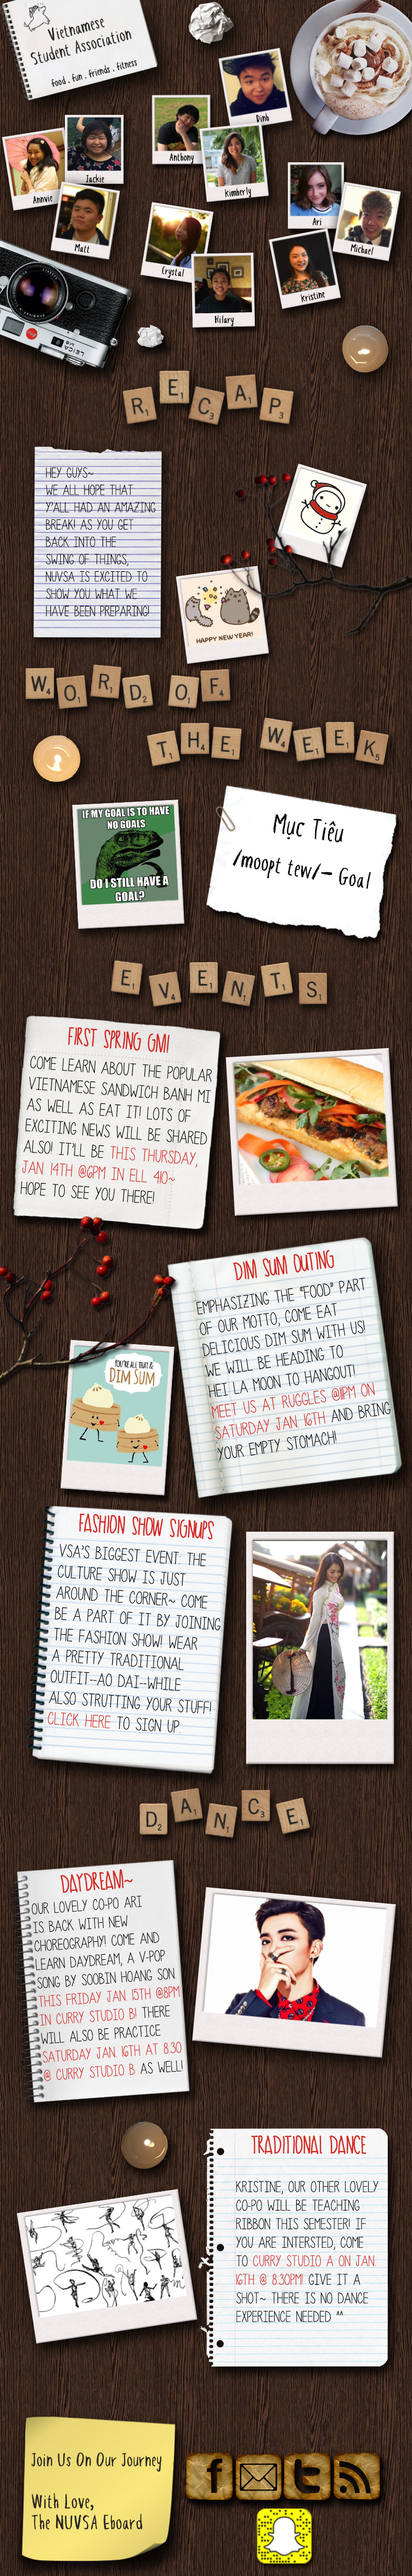
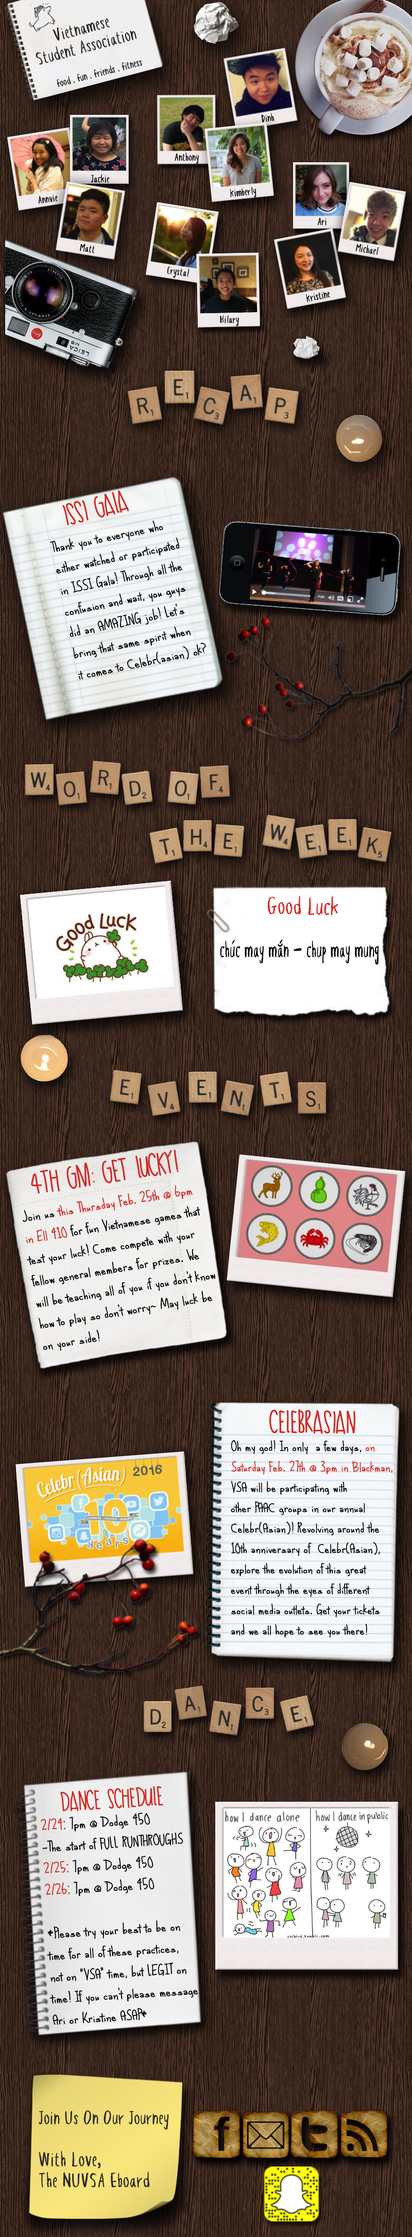
Updated current newsletter

diff --git a/index.html b/index.html
@@ -54,21 +54,21 @@
     <!-- Matt was here LOL -->
     <!-- ...mmmm check out dat source -->
     <div>
-      <img id="newsletter" src="images/winterNewsletter6.jpg" border="0" width="800" height="4712" orgWidth="800" orgHeight="4712" usemap="#image-maps-2016-02-17-010904" alt="" />
+      <img id="newsletter" src="images/winterNewsletter.jpg" border="0" width="800" height="4343" orgWidth="800" orgHeight="4343" usemap="#image-maps-2016-02-24-040545" alt="" />
     </div>
-    <map name="image-maps-2016-02-17-010904" id="newsletterMap">
-      <area  alt="" title="Word of the Week" href="http://www.vsa.neu.edu/#cboxdiv" shape="rect" coords="0,2141,800,2527" style="outline:none;" target="_self"     />
-      <area  alt="" title="NUVSA Facebook" href="https://www.facebook.com/groups/NUVSA/" shape="rect" coords="375,4464,465,4555" style="outline:none;" target="_self"     />
-      <area  alt="" title="Send us an email!" href="mailto:thenuvsaeboard@gmail.com" shape="rect" coords="470,4465,560,4556" style="outline:none;" target="_self"     />
-      <area  alt="" title="NUVSA Twitter" href="https://twitter.com/nuvsa" shape="rect" coords="564,4464,654,4555" style="outline:none;" target="_self"     />
-      <area  alt="" title="NUVSA Website" href="http://www.vsa.neu.edu/" shape="rect" coords="660,4463,750,4554" style="outline:none;" target="_self"     />
-      <area  alt="" title="NUVSA Snapchat" href="http://nuvsa.github.io/images/vsaSnapchat.jpg" shape="rect" coords="512,4572,618,4680" style="outline:none;" target="_self"     />
-      <area  alt="" title="Anthony Li" href="javascript:rickRoll()" shape="poly" coords="310,188,414,187,413,247,396,248,402,291,309,293" style="outline:none;" target="_self"     />
-      <area  alt="" title="SASE NERC Photos!!" href="https://www.facebook.com/ynnejcheung/media_set?set=a.1118072334871808.1073741848.100000071553519&type=3" shape="poly" coords="458,1455,707,1410,738,1568,586,1595,509,1590,504,1613,490,1615" style="outline:none;" target="_self"     />
-      <area  alt="" title="SASE NERC" href="https://www.facebook.com/ynnejcheung/media_set?set=a.1118072334871808.1073741848.100000071553519&type=3" shape="poly" coords="521,1600,773,1620,762,1781,508,1762" style="outline:none;" target="_self"     />
-      <area  alt="" title="Celebr(Asian) 2016" href="https://www.facebook.com/events/908648615920253/" shape="poly" coords="629,3465,715,3466,714,3535,545,3549,544,3576,444,3572,452,3497,629,3494" style="outline:none;" target="_self"     />
-      <area  alt="" title="Dance Schedule!! RIP" href="https://www.facebook.com/photo.php?fbid=699787600124999&set=gm.1096982636990496&type=3&theater" shape="poly" coords="16,3882,324,3795,448,4266,142,4354" style="outline:none;" target="_self"     />
-      <area  alt="" title="One Night, One World Gala!!" href="https://www.facebook.com/events/1664275890490640/" shape="poly" coords="353,2951,430,2942,447,3008,160,3060,169,3093,99,3107,84,3026,362,2979" style="outline:none;" target="_self"     />
+    <map name="image-maps-2016-02-24-040545" id="newsletterMap">
+      <area  alt="" title="Word of the Week" href="http://www.vsa.neu.edu/#cboxdiv" shape="rect" coords="0,1706,800,1992" style="outline:none;" target="_self"     />
+      <area  alt="" title="" href="https://www.facebook.com/events/970499653019438/" shape="rect" coords="73,3526,130,3557" style="outline:none;" target="_self"     />
+      <area  alt="" title="" href="https://www.facebook.com/events/1555030831474604/" shape="rect" coords="82,3650,139,3681" style="outline:none;" target="_self"     />
+      <area  alt="" title="NUVSA Facebook" href="https://www.facebook.com/groups/NUVSA/" shape="rect" coords="377,4098,465,4189" style="outline:none;" target="_self"     />
+      <area  alt="" title="Send us an email!" href="mailto:thenuvsaeboard@gmail.com" shape="rect" coords="473,4099,561,4190" style="outline:none;" target="_self"     />
+      <area  alt="" title="NUVSA Twitter" href="https://twitter.com/nuvsa" shape="rect" coords="567,4098,655,4189" style="outline:none;" target="_self"     />
+      <area  alt="" title="NUVSA Website" href="http://www.vsa.neu.edu/" shape="rect" coords="663,4096,751,4187" style="outline:none;" target="_self"     />
+      <area  alt="" title="NUVSA Snapchat" href="http://nuvsa.github.io/images/vsaSnapchat.jpg" shape="rect" coords="512,4206,621,4314" style="outline:none;" target="_self"     />
+      <area shape="rect" coords="798,4341,800,4343" alt="Image Map" style="outline:none;" title="Image Map" href="http://www.image-maps.com/index.php?aff=mapped_users_0" />
+      <area  alt="" title="" href="javascript:rickRoll()" shape="poly" coords="309,189,412,187,413,250,396,247,401,292,312,291" style="outline:none;" target="_self"     />
+      <area  alt="" title="VSA Spring GM #4" href="https://www.facebook.com/events/164221313959425/" shape="poly" coords="108,2334,375,2293,381,2328,130,2374,133,2404,49,2423,44,2389,112,2368" style="outline:none;" target="_self"     />
+      <area  alt="" title="Celebr(Asian) 2016!!" href="https://www.facebook.com/events/908648615920253/" shape="poly" coords="707,2799,736,2799,739,2834,767,2837,769,2865,444,2860,447,2832,710,2824" style="outline:none;" target="_self"     />
     </map>
   </body>
   <script>
